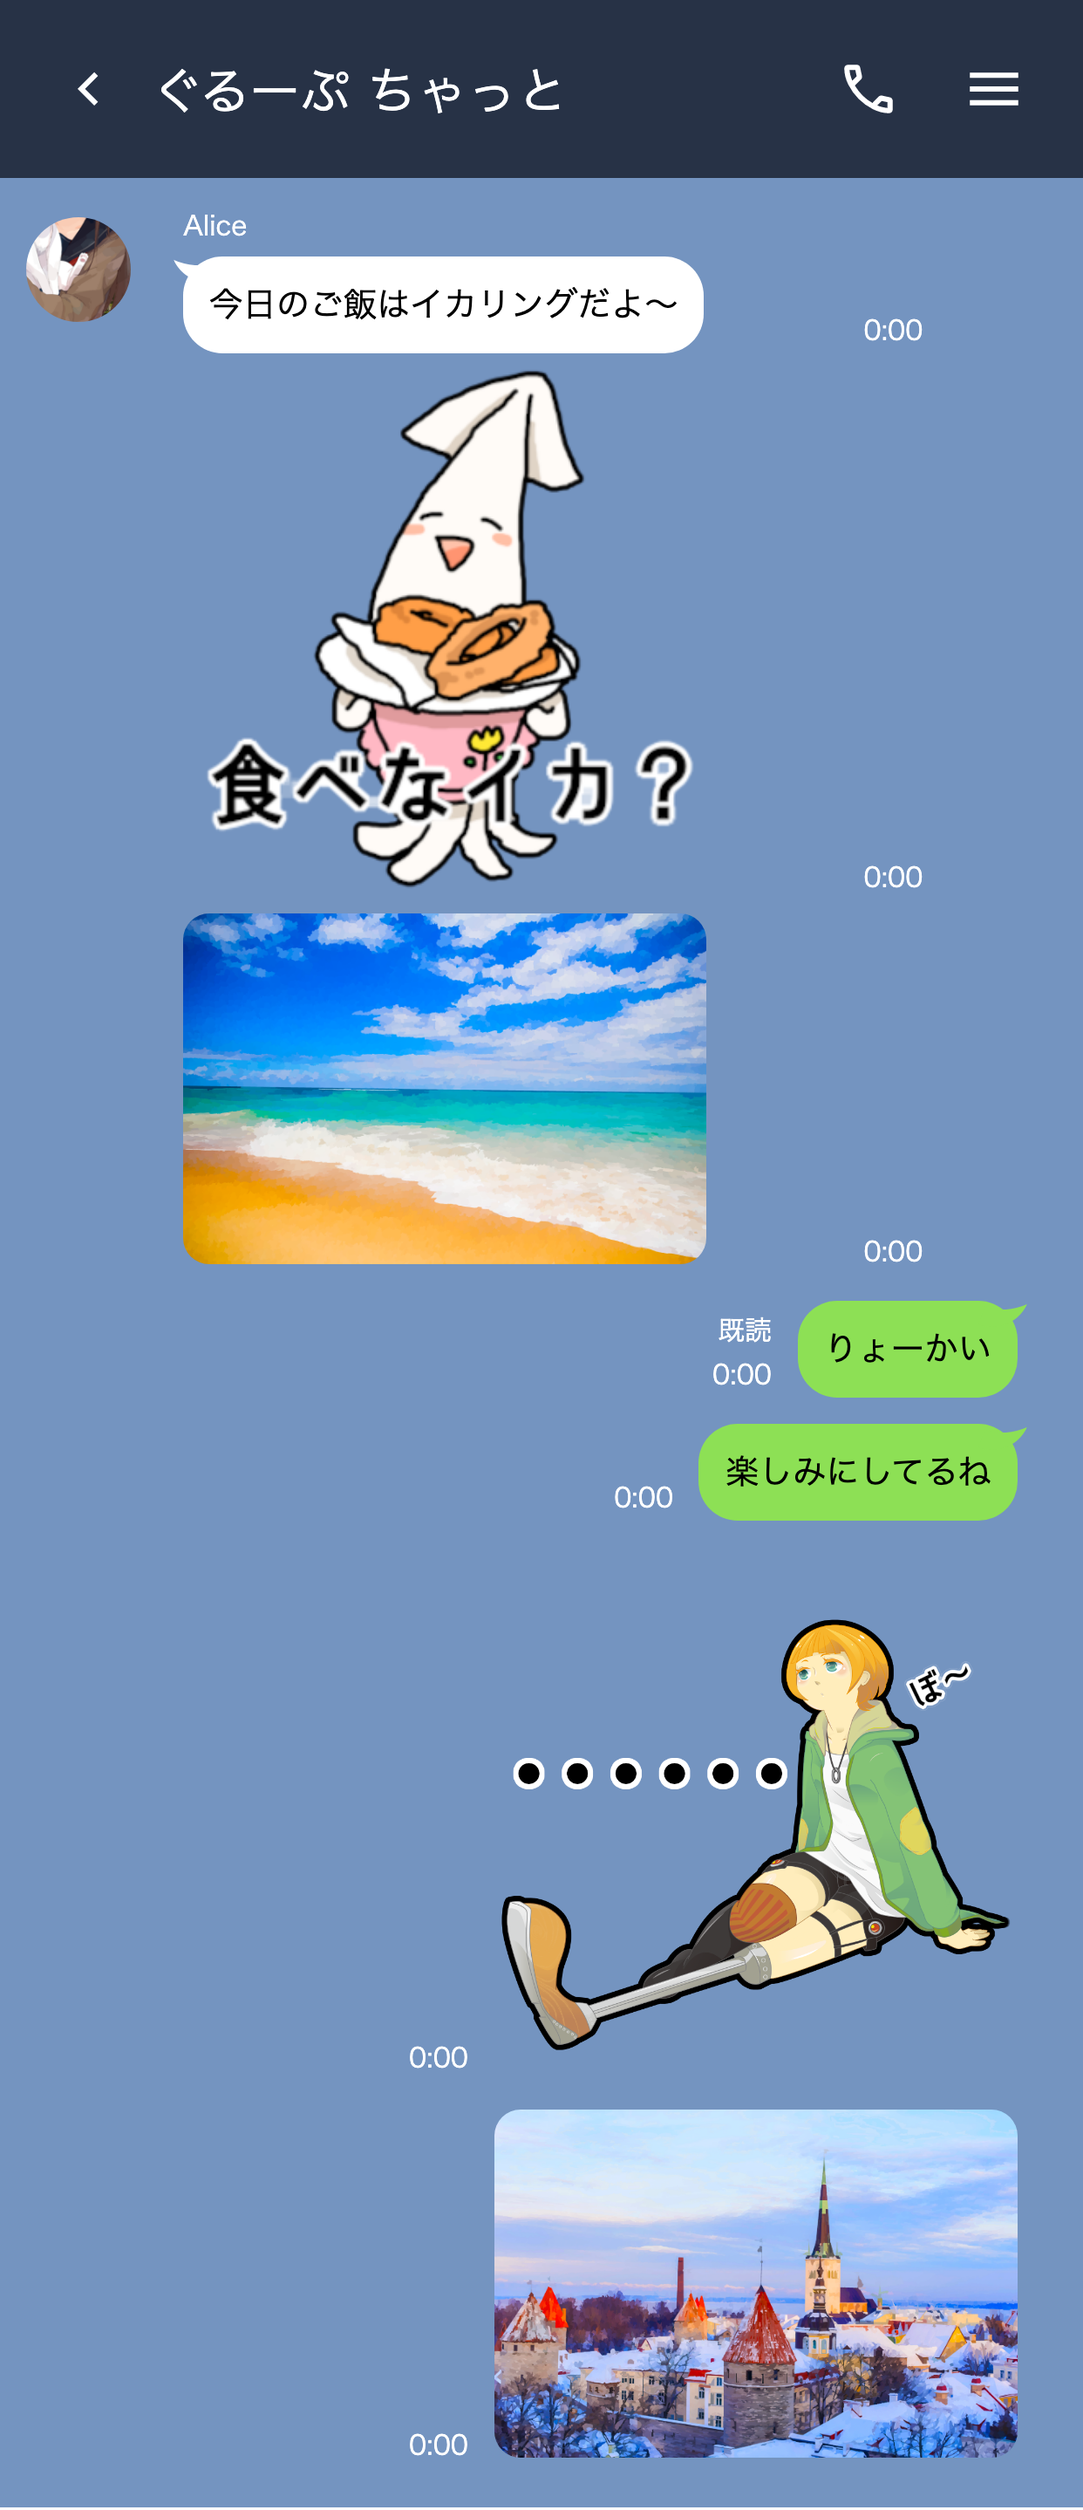
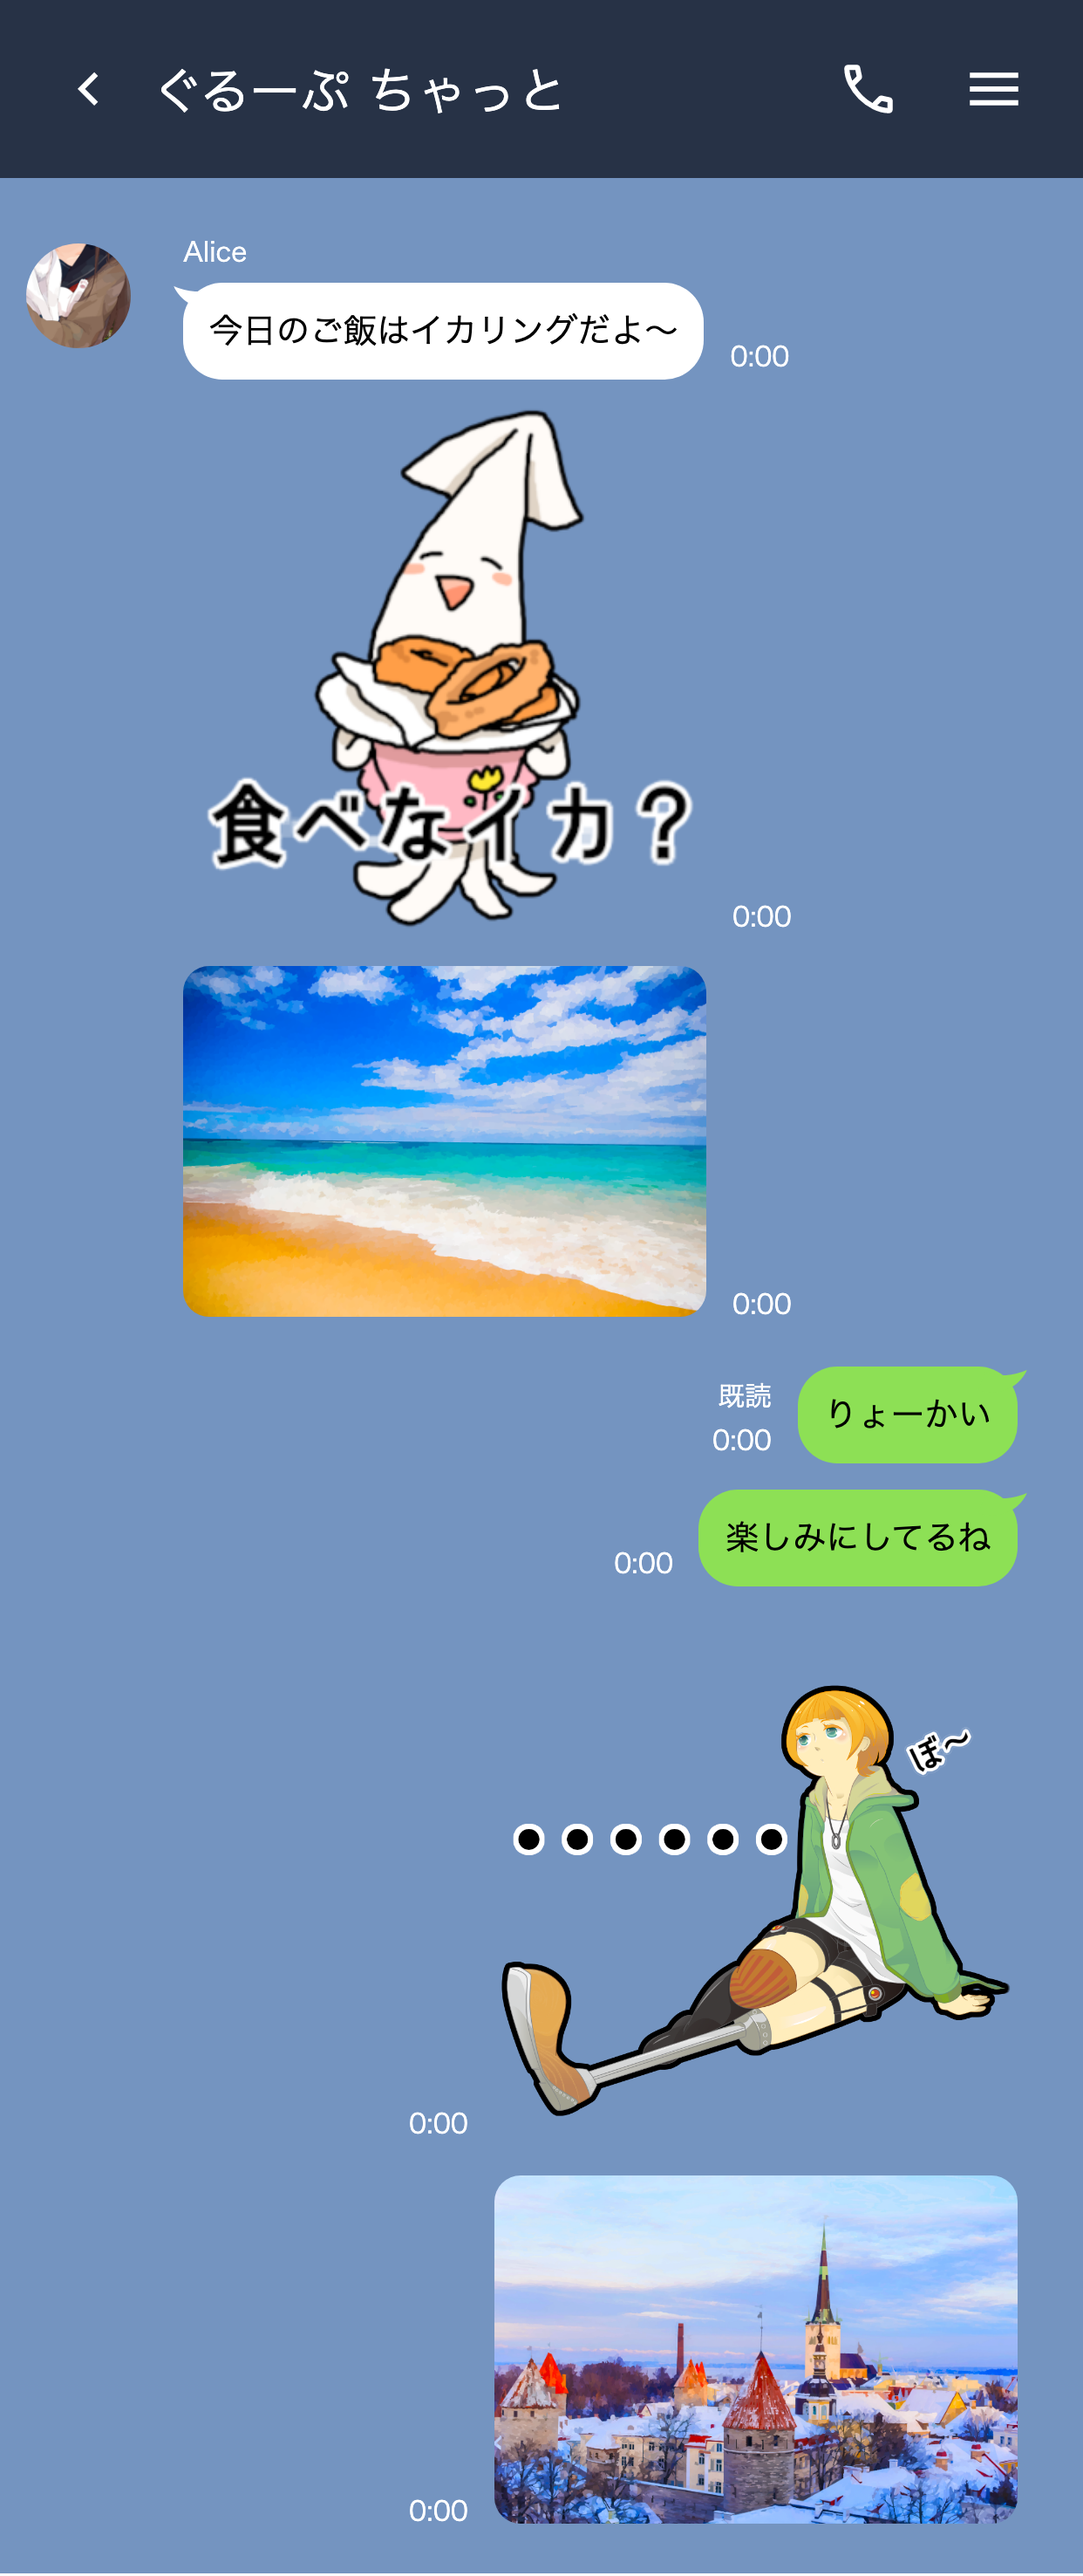
updated example.png

diff --git a/input/assets/css/chat.scss b/input/assets/css/chat.scss
@@ -75,10 +75,10 @@ body {
 
     /* 相手の会話 */
     .line__left {
-      width: 100%;
+      width: fit-content;
       position: relative;
       display: block;
-      margin-bottom: 5px;
+      margin: 10px 0;
       max-width: 80%;
       clear: both;
 
@@ -128,7 +128,7 @@ body {
           display: block;
           width: 100px;
           text-align: left;
-          right: -105px;
+          right: -110px;
           bottom: 0px;
           font-size: 80%;
           color: #ffffff;
